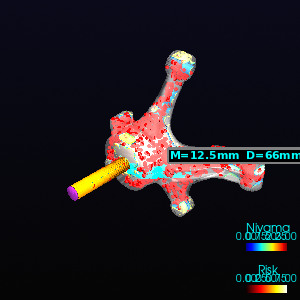
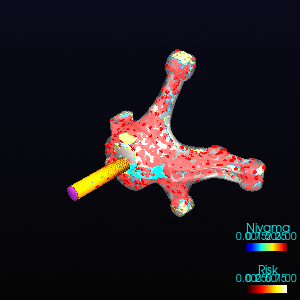
v8.4: gating area/velocity cross-checks, effective gate area, target area ranges per section, robust area calculations

Changed region(s): [[0.33, 0.15, 1.0, 0.72], [0.3, 0.6, 0.33, 0.63]]

diff --git a/core/gating.py b/core/gating.py
@@ -47,10 +47,14 @@ def _apply_edge_mask(arr, di, dj, dk):
 
 
 def _gate_source_mask(grid: np.ndarray) -> np.ndarray:
-    """Return gating bodies that can feed metal into the part."""
+    """Return gating bodies that can feed metal into the part.
+
+    Filter and pouring basin may also act as entry points; cooling sprue
+    is a chill and must not be treated as a feeder.
+    """
     return np.isin(
         grid,
-        [BodyType.INGATE, BodyType.RUNNER, BodyType.SPRUE, BodyType.COOLING_SPRUE, BodyType.POURING_BASIN],
+        [BodyType.INGATE, BodyType.RUNNER, BodyType.SPRUE, BodyType.FILTER, BodyType.POURING_BASIN],
     )
 
 
@@ -102,7 +106,8 @@ def _minimum_cross_section_area(mask: np.ndarray, dx: float) -> float:
     min_area = float("inf")
     for s, count in counts:
         # Ignore end slices that contain only a few voxels; they are not a real cross-section.
-        if count < max(3, max_count * 0.05):
+        # Use a small relative threshold (2% or at least 2 voxels) so thin throats are kept.
+        if count < max(2, max_count * 0.02):
             continue
         area = count * dx * dx
         if area < min_area:
@@ -252,6 +257,16 @@ _GATING_VELOCITY_TARGETS = {
 }
 
 
+def _target_area_range_cm2(Q_m3_s: float, v_lo: float, v_hi: float) -> Tuple[float, float]:
+    """Return (A_min, A_max) in cm² so that v = Q/A stays inside [v_lo, v_hi]."""
+    if Q_m3_s <= 0 or v_lo <= 0 or v_hi <= 0:
+        return 0.0, 0.0
+    # A = Q / v ; larger v needs smaller A
+    a_min_m2 = Q_m3_s / v_hi
+    a_max_m2 = Q_m3_s / v_lo
+    return a_min_m2 * 1e4, a_max_m2 * 1e4
+
+
 def _normalized_distance_to_range(v: float, lo: float, hi: float) -> float:
     if lo <= v <= hi:
         return 0.0
@@ -390,8 +405,22 @@ def analyze_gating(
     has_ingate = ingate.any()
 
     # Contact/cross-sectional areas of each gating section
-    ag_total_mm2, _ = ingate_contact_area_and_mask(grid, dx)
-    ag_total_cm2 = ag_total_mm2 / 100.0
+    gate_contact_area_mm2, _ = ingate_contact_area_and_mask(grid, dx)
+    gate_contact_area_cm2 = gate_contact_area_mm2 / 100.0
+
+    # True gate area is the minimum cross-section of the ingate body;
+    # if there is no ingate body, the runner exit touching the part is used.
+    ingate_min_area_mm2 = _minimum_cross_section_area(ingate, dx) if has_ingate else 0.0
+    ingate_min_area_cm2 = ingate_min_area_mm2 / 100.0
+    # Effective gate area is the smaller of (a) the ingate body's minimum cross-section
+    # and (b) the contact face with the part.  If the ingate is too thin to resolve,
+    # fall back to the contact area.
+    if has_ingate:
+        if ingate_min_area_cm2 <= 0:
+            ingate_min_area_cm2 = gate_contact_area_cm2
+        else:
+            ingate_min_area_cm2 = min(ingate_min_area_cm2, gate_contact_area_cm2)
+    gate_area_cm2 = ingate_min_area_cm2 if has_ingate else gate_contact_area_cm2
 
     runner_min_area_mm2 = _minimum_cross_section_area(runner, dx)
     runner_min_area_cm2 = runner_min_area_mm2 / 100.0
@@ -406,7 +435,7 @@ def analyze_gating(
 
     runner_thickness_mm = _mean_thickness(runner, dx)
     sprue_thickness_mm = _mean_thickness(sprue, dx)
-    ingate_thickness_mm = _mean_thickness(source, dx)
+    ingate_thickness_mm = _mean_thickness(ingate if has_ingate else source, dx)
 
     # Part weight for Bernoulli
     part_volume_mm3 = float(part_mask.sum()) * (dx ** 3)
@@ -416,12 +445,12 @@ def analyze_gating(
 
     # Section area map for velocity calculations
     section_area_cm2 = {
-        "INGATE": ag_total_cm2,
+        "INGATE": gate_area_cm2,
         "RUNNER": runner_min_area_cm2,
         "SPRUE_THROAT": sprue_throat_cm2,
         "SPRUE_BASE": sprue_base_bottom_cm2,
     }
-    selected_area_cm2 = section_area_cm2.get(velocity_section_key, ag_total_cm2)
+    selected_area_cm2 = section_area_cm2.get(velocity_section_key, gate_area_cm2)
     selected_area_m2 = selected_area_cm2 / 1e4
 
     # v8.3: user-specified inlet velocity for the selected section (0 = auto Q = V_part / t_fill)
@@ -493,6 +522,27 @@ def analyze_gating(
         f"Önerilen sistem: {recommended_system}. {system_reason}"
     )
 
+    # v8.4: attach target velocity/area ranges from recommended system to each section flow
+    def _set_targets(flow: SectionFlow, key: str):
+        section_key_map = {
+            "INGATE": "gate",
+            "RUNNER": "runner",
+            "SPRUE_THROAT": "sprue",
+            "SPRUE_BASE": "sprue",
+        }
+        vel_key = section_key_map.get(key)
+        targets = _GATING_VELOCITY_TARGETS.get(recommended_system, {})
+        if vel_key and vel_key in targets and Q_m3_s > 0:
+            v_lo, v_hi = targets[vel_key]
+            flow.target_v_min_m_s = v_lo
+            flow.target_v_max_m_s = v_hi
+            flow.target_area_min_cm2, flow.target_area_max_cm2 = _target_area_range_cm2(
+                Q_m3_s, v_lo, v_hi
+            )
+
+    for key, sf in section_flows.items():
+        _set_targets(sf, key)
+
     # Sprue height H in cm; fallback to total metal height
     metal_pts = np.argwhere(result.is_metal)
     if len(metal_pts) > 0:
@@ -514,7 +564,7 @@ def analyze_gating(
     # Bernoulli with elbow losses along the gating channel
     channel_mask = np.isin(
         grid,
-        [BodyType.INGATE, BodyType.RUNNER, BodyType.SPRUE, BodyType.COOLING_SPRUE, BodyType.POURING_BASIN],
+        [BodyType.INGATE, BodyType.RUNNER, BodyType.SPRUE, BodyType.FILTER, BodyType.POURING_BASIN],
     )
     sprue_mask = sprue & channel_mask
     effective_head_cm = height_cm
@@ -548,15 +598,48 @@ def analyze_gating(
     final_sprue_required_cm2 = max(as_req_cm2, required_sprue_area_with_losses_cm2)
     bernoulli_ok = sprue_throat_cm2 >= final_sprue_required_cm2
 
-    # Campbell: total ingate area / runner area < 1.5
-    if runner_min_area_cm2 > 0:
-        gate_to_runner_ratio = ag_total_cm2 / runner_min_area_cm2
-        campbell_ok = gate_to_runner_ratio <= 1.5
+    # v8.4: area checks against target ranges from the recommended gating system.
+    # The target area range for a section is A = Q / v, using the system's v range.
+    gate_flow = section_flows.get("INGATE", SectionFlow())
+    runner_flow = section_flows.get("RUNNER", SectionFlow())
+    sprue_flow = section_flows.get("SPRUE_THROAT", SectionFlow())
+
+    def _area_mid(sf: SectionFlow) -> float:
+        if sf.target_area_min_cm2 > 0 and sf.target_area_max_cm2 > 0:
+            return (sf.target_area_min_cm2 + sf.target_area_max_cm2) / 2.0
+        return 0.0
+
+    def _in_target_range(sf: SectionFlow, area_cm2: float) -> bool:
+        if sf.target_area_min_cm2 <= 0 or sf.target_area_max_cm2 <= 0:
+            return True
+        lo = sf.target_area_min_cm2 * 0.95
+        hi = sf.target_area_max_cm2 * 1.05
+        return lo <= area_cm2 <= hi
+
+    required_ingate_area_cm2 = _area_mid(gate_flow)
+    required_runner_area_cm2 = _area_mid(runner_flow)
+    required_sprue_area_cm2 = max(final_sprue_required_cm2, _area_mid(sprue_flow))
+
+    # Campbell-style ratio check from target velocities (Q same -> A_gate/A_runner = v_runner/v_gate)
+    campbell_ok = True
+    if runner_min_area_cm2 > 0 and gate_area_cm2 > 0:
+        target_ratio = 0.0
+        targets = _GATING_VELOCITY_TARGETS.get(recommended_system, {})
+        if "gate" in targets and "runner" in targets:
+            v_gate_mid = (targets["gate"][0] + targets["gate"][1]) / 2.0
+            v_runner_mid = (targets["runner"][0] + targets["runner"][1]) / 2.0
+            if v_gate_mid > 0:
+                target_ratio = v_runner_mid / v_gate_mid
+        if target_ratio > 0:
+            actual_ratio = gate_area_cm2 / runner_min_area_cm2
+            campbell_ok = abs(actual_ratio - target_ratio) / target_ratio <= 0.30
+        else:
+            # Fallback old rule if no target
+            campbell_ok = gate_area_cm2 / runner_min_area_cm2 <= 1.5
     else:
         campbell_ok = False
 
-    required_runner_area_cm2 = ag_total_cm2 / 1.5 if ag_total_cm2 > 0 else 0.0
-    runner_ok = runner_min_area_cm2 >= required_runner_area_cm2
+    runner_ok = _in_target_range(runner_flow, runner_min_area_cm2)
 
     # Ingate location check
     part_sdf = sdf[part_mask]
@@ -574,8 +657,7 @@ def analyze_gating(
     threshold = 0.8 * max_part_sdf
     ingate_on_thick = ingate_avg_m > threshold if max_part_sdf > 0 else False
 
-    required_ingate_area_cm2 = required_runner_area_cm2 / 1.5
-    ingate_ok = (ag_total_cm2 >= required_ingate_area_cm2) and (not ingate_on_thick)
+    ingate_ok = _in_target_range(gate_flow, gate_area_cm2) and (not ingate_on_thick)
     if user_v > 0:
         ingate_ok = ingate_ok and velocity_area_ok
 
@@ -626,7 +708,7 @@ def analyze_gating(
         )
 
     return GateResult(
-        total_ingate_contact_area_cm2=ag_total_cm2,
+        total_ingate_contact_area_cm2=gate_contact_area_cm2,
         runner_min_area_cm2=runner_min_area_cm2,
         sprue_base_area_cm2=sprue_base_cm2,
         required_sprue_area_cm2=final_sprue_required_cm2,

diff --git a/core/reporter.py b/core/reporter.py
@@ -7,7 +7,7 @@ from typing import Optional
 
 import numpy as np
 
-from core.types import AnalysisResult
+from core.types import AnalysisResult, SectionFlow
 
 
 def _html_escape(text: str) -> str:
@@ -105,10 +105,17 @@ def _section_flow_rows(gr) -> str:
         name = section_names.get(key, key)
         if key == "INGATE" and getattr(gr, "effective_gate_section", "INGATE").startswith("RUNNER"):
             name = "Yolluk (meme yok)"
+        target = ""
+        if sf.target_v_min_m_s > 0 and sf.target_v_max_m_s > 0:
+            target = (
+                f" hedef v={sf.target_v_min_m_s:.1f}-{sf.target_v_max_m_s:.1f} m/s, "
+                f"A={sf.target_area_min_cm2:.2f}-{sf.target_area_max_cm2:.2f} cm²"
+            )
         rows.append(
             f"<tr><td>{name}: v / Re / Fr</td>"
             f"<td>{sf.velocity_m_s:.2f} m/s</td>"
-            f"<td>Re={sf.reynolds:.0f}, Fr={sf.froude:.2f}, A={sf.area_cm2:.2f} cm², türbülans={'Evet' if sf.turbulent else 'Hayır'}</td></tr>"
+            f"<td>Re={sf.reynolds:.0f}, Fr={sf.froude:.2f}, A={sf.area_cm2:.2f} cm², "
+            f"türbülans={'Evet' if sf.turbulent else 'Hayır'}{target}</td></tr>"
         )
     return "".join(rows)
 
@@ -132,22 +139,37 @@ def _format_gate_table(result: AnalysisResult) -> str:
             f"runner={system_targets['runner'][0]:.1f}-{system_targets['runner'][1]:.1f}, "
             f"gate={system_targets['gate'][0]:.1f}-{system_targets['gate'][1]:.1f} m/s"
         )
-    return f"""
+    gate_flow = gr.section_flows.get("INGATE", SectionFlow())
+    runner_flow = gr.section_flows.get("RUNNER", SectionFlow())
+
+    def _target_range(sf: SectionFlow) -> str:
+        if sf.target_area_min_cm2 > 0 and sf.target_area_max_cm2 > 0:
+            return f"hedef {sf.target_area_min_cm2:.2f}-{sf.target_area_max_cm2:.2f} cm²"
+        return "hedef -"
+
+    target_ratio = 0.0
+    if system_targets and "gate" in system_targets and "runner" in system_targets:
+        v_gate_mid = (system_targets["gate"][0] + system_targets["gate"][1]) / 2.0
+        v_runner_mid = (system_targets["runner"][0] + system_targets["runner"][1]) / 2.0
+        if v_gate_mid > 0:
+            target_ratio = v_runner_mid / v_gate_mid
+
+    return f""""
     <table>
         <tr><th>Parametre</th><th>Değer</th><th>Durum / Gerekli</th></tr>
         <tr><td>Seçili giriş kesiti</td><td>{selected_section}</td><td>v = {gr.ingate_velocity_m_s:.2f} m/s</td></tr>
         <tr><td>Efektif gate kesiti</td><td>{gr.effective_gate_section}</td><td>-</td></tr>
         <tr><td>Tespit edilen / Önerilen sistem</td><td>{gr.detected_gating_system} / {gr.recommended_gating_system}</td><td>Cidar: {gr.wall_thickness_category}</td></tr>
         <tr><td>Önerilen sistem hedef hızları</td><td>{target_text}</td><td>-</td></tr>
-        <tr><td>Toplam meme temas alanı (Ag)</td><td>{gr.total_ingate_contact_area_cm2:.2f} cm²</td><td>min {gr.required_ingate_area_cm2:.2f} cm²</td></tr>
-        <tr><td>Yolluk min kesit alanı (Ar)</td><td>{gr.runner_min_area_cm2:.2f} cm²</td><td>min {gr.required_runner_area_cm2:.2f} cm²</td></tr>
+        <tr><td>Gate alanı (Ag)</td><td>{gate_flow.area_cm2:.2f} cm²</td><td>{_target_range(gate_flow)}</td></tr>
+        <tr><td>Yolluk min kesit alanı (Ar)</td><td>{gr.runner_min_area_cm2:.2f} cm²</td><td>{_target_range(runner_flow)}</td></tr>
         <tr><td>Döküm ağzı boğaz alanı (As)</td><td>{gr.sprue_throat_area_cm2:.2f} cm²</td><td>gerekli {gr.required_sprue_area_cm2:.2f} cm²</td></tr>
         <tr><td>Döküm ağzı taban alanı</td><td>{gr.sprue_base_area_cm2:.2f} cm²</td><td>-</td></tr>
         {_section_flow_rows(gr)}
         <tr><td>Toplam debi Q</td><td>{gr.ingate_flow_rate_m3_s*1e3:.2f} L/s</td><td>doldurma süresi {gr.ingate_fill_time_s:.2f} s</td></tr>
         <tr><td>Akışkanlık uzunluğu Lf</td><td>{gr.fluidity_length_mm:.1f} mm</td><td>parça boyutu ≤ Lf</td></tr>
         <tr><td>Hız için gerekli seçili kesit alanı</td><td>{gr.required_ingate_area_for_velocity_cm2:.2f} cm²</td><td>mevcut {selected_area:.2f} cm²</td></tr>
-        <tr><td>Campbell (Ag/Ar) kontrolü</td><td>{'Geçer' if gr.campbell_ok else 'Geçersiz'}</td><td>Ag/Ar &lt; 1.5</td></tr>
+        <tr><td>Campbell (Ag/Ar) kontrolü</td><td>{'Geçer' if gr.campbell_ok else 'Geçersiz'}</td><td>hedef oran {target_ratio:.2f}</td></tr>
         <tr><td>Bernoulli döküm ağzı kontrolü</td><td>{'Geçer' if gr.bernoulli_ok else 'Geçersiz'}</td><td>As ≥ gerekli</td></tr>
         <tr><td>Dirsek kaybı (K·v²/2g)</td><td>{gr.elbow_count} dirsek, {gr.head_loss_mm:.1f} mm kayıp</td><td>efektif H={gr.effective_head_mm:.1f} mm</td></tr>
         <tr><td>Meme kalın bölgede</td><td>{'Evet' if gr.ingate_on_thick_region else 'Hayır'} (ortalama M={gr.ingate_avg_m_mm:.2f} mm)</td><td>Hayır olmalı</td></tr>
@@ -418,6 +440,8 @@ def _generate_report_fpdf2(
             "SPRUE_THROAT": "D.AgzI bogazi",
             "SPRUE_BASE": "D.AgzI tabani",
         }
+        gate_flow = gr.section_flows.get("INGATE", SectionFlow())
+        runner_flow = gr.section_flows.get("RUNNER", SectionFlow())
         pdf.set_font(font, "", 13)
         pdf.cell(0, 8, "Meme / Yolluk / Döküm Ağzı", ln=True)
         pdf.set_font(font, "", 10)
@@ -426,8 +450,8 @@ def _generate_report_fpdf2(
         pdf.cell(0, 6, f"Tespit edilen / Onerilen sistem: {getattr(gr, 'detected_gating_system', '')} / {getattr(gr, 'recommended_gating_system', '')} (cidar: {getattr(gr, 'wall_thickness_category', '')})", ln=True)
         pdf.cell(0, 6, f"Toplam debi Q: {gr.ingate_flow_rate_m3_s*1e3:.2f} L/s, doldurma suresi: {gr.ingate_fill_time_s:.2f} s", ln=True)
         pdf.cell(0, 6, f"Akiskanlik uzunlugu Lf: {gr.fluidity_length_mm:.1f} mm", ln=True)
-        pdf.cell(0, 6, f"Meme temas alani: {gr.total_ingate_contact_area_cm2:.2f} cm² (min {gr.required_ingate_area_cm2:.2f} cm²)", ln=True)
-        pdf.cell(0, 6, f"Yolluk min kesit: {gr.runner_min_area_cm2:.2f} cm² (min {gr.required_runner_area_cm2:.2f} cm²)", ln=True)
+        pdf.cell(0, 6, f"Gate alani: {gate_flow.area_cm2:.2f} cm² (hedef {gate_flow.target_area_min_cm2:.2f}-{gate_flow.target_area_max_cm2:.2f})", ln=True)
+        pdf.cell(0, 6, f"Yolluk min kesit: {gr.runner_min_area_cm2:.2f} cm² (hedef {runner_flow.target_area_min_cm2:.2f}-{runner_flow.target_area_max_cm2:.2f})", ln=True)
         pdf.cell(0, 6, f"Döküm ağzı boğazı: {gr.sprue_throat_area_cm2:.2f} cm² (gerekli {gr.required_sprue_area_cm2:.2f} cm²)", ln=True)
         pdf.cell(0, 6, f"Döküm ağzı tabanı: {gr.sprue_base_area_cm2:.2f} cm²", ln=True)
         for key, sf in getattr(gr, "section_flows", {}).items():
@@ -436,7 +460,13 @@ def _generate_report_fpdf2(
             name = section_names.get(key, key)
             if key == "INGATE" and getattr(gr, "effective_gate_section", "INGATE").startswith("RUNNER"):
                 name = "Yolluk (meme yok)"
-            pdf.cell(0, 6, f"{name}: v={sf.velocity_m_s:.2f} m/s, Re={sf.reynolds:.0f}, Fr={sf.froude:.2f}, A={sf.area_cm2:.2f} cm2, turb={sf.turbulent}", ln=True)
+            target = ""
+            if sf.target_v_min_m_s > 0 and sf.target_v_max_m_s > 0:
+                target = (
+                    f" hedef v={sf.target_v_min_m_s:.1f}-{sf.target_v_max_m_s:.1f}, "
+                    f"A={sf.target_area_min_cm2:.2f}-{sf.target_area_max_cm2:.2f} cm2"
+                )
+            pdf.cell(0, 6, f"{name}: v={sf.velocity_m_s:.2f}, Re={sf.reynolds:.0f}, Fr={sf.froude:.2f}, A={sf.area_cm2:.2f}{target}, turb={sf.turbulent}", ln=True)
         pdf.cell(0, 6, f"Campbell: {'Geçer' if gr.campbell_ok else 'Geçersiz'}", ln=True)
         pdf.cell(0, 6, f"Bernoulli: {'Geçer' if gr.bernoulli_ok else 'Geçersiz'} (dirsek kaybi: {gr.elbow_count}, {gr.head_loss_mm:.1f} mm)", ln=True)
         pdf.cell(0, 6, f"Meme kalın bölgede: {'Evet' if gr.ingate_on_thick_region else 'Hayır'} "

diff --git a/ui/main_window.py b/ui/main_window.py
@@ -802,22 +802,28 @@ class MainWindow(QtWidgets.QMainWindow):
                     f"Sistem uyuşmazlığı: {gr.detected_gating_system} tespit edildi, "
                     f"{gr.recommended_gating_system} önerilir."
                 )
-        # v8.3: per-section velocity / Re / Fr report
+        # v8.4: per-section velocity / Re / Fr report with target ranges
         for key, sf in getattr(gr, "section_flows", {}).items():
             if sf.area_cm2 <= 0:
                 continue
             name = section_names.get(key, key)
             if key == "INGATE" and gr.effective_gate_section.startswith("RUNNER"):
                 name = "Yolluk (meme yok)"
+            target = ""
+            if sf.target_v_min_m_s > 0 and sf.target_v_max_m_s > 0:
+                target = (
+                    f" hedef v={sf.target_v_min_m_s:.1f}-{sf.target_v_max_m_s:.1f} m/s, "
+                    f"A={sf.target_area_min_cm2:.2f}-{sf.target_area_max_cm2:.2f} cm²"
+                )
             if sf.turbulent:
                 recs.append(
                     f"{name} hızı {sf.velocity_m_s:.2f} m/s ile yüksek; Re={sf.reynolds:.0f}, Fr={sf.froude:.2f}. "
-                    f"Türbülans / hava kaçırma riski. Kesit alanını büyüt veya döküm süresini artırın."
+                    f"Türbülans / hava kaçırma riski. Kesit alanını büyüt veya döküm süresini artırın.{target}"
                 )
             else:
                 recs.append(
                     f"{name}: v={sf.velocity_m_s:.2f} m/s, Re={sf.reynolds:.0f}, Fr={sf.froude:.2f}, "
-                    f"A={sf.area_cm2:.2f} cm² -> türbülans yok."
+                    f"A={sf.area_cm2:.2f} cm² -> türbülans yok.{target}"
                 )
         if hasattr(gr, "velocity_fill_time_match_ok") and not gr.velocity_fill_time_match_ok:
             t_fill = self._analysis.casting_params.t_fill_s if self._analysis and self._analysis.casting_params else 0.0
@@ -897,17 +903,26 @@ class MainWindow(QtWidgets.QMainWindow):
                         gr.detected_gating_system == gr.recommended_gating_system,
                     )
                 )
-            # v8.3: per-section velocity / Re / Fr checklist items
+            # v8.4: per-section velocity / Re / Fr checklist items with target ranges
             for key, sf in getattr(gr, "section_flows", {}).items():
                 if sf.area_cm2 <= 0:
                     continue
                 name = section_names.get(key, key)
                 if key == "INGATE" and gr.effective_gate_section.startswith("RUNNER"):
                     name = "Yolluk (meme yok)"
+                target = ""
+                if sf.target_v_min_m_s > 0 and sf.target_v_max_m_s > 0:
+                    target = (
+                        f" hedef v={sf.target_v_min_m_s:.1f}-{sf.target_v_max_m_s:.1f}, "
+                        f"A={sf.target_area_min_cm2:.2f}-{sf.target_area_max_cm2:.2f}"
+                    )
+                ok = not sf.turbulent
+                if sf.target_v_min_m_s > 0 and sf.target_v_max_m_s > 0:
+                    ok = ok and (sf.target_v_min_m_s <= sf.velocity_m_s <= sf.target_v_max_m_s)
                 self.checklist_layout.addWidget(
                     CheckListItem(
-                        f"{name}: v={sf.velocity_m_s:.2f} m/s, Re={sf.reynolds:.0f}, Fr={sf.froude:.2f}, A={sf.area_cm2:.2f} cm²",
-                        not sf.turbulent,
+                        f"{name}: v={sf.velocity_m_s:.2f}{target}",
+                        ok,
                     )
                 )
             if hasattr(gr, "velocity_fill_time_match_ok"):

diff --git a/core/types.py b/core/types.py
@@ -164,6 +164,11 @@ class SectionFlow:
     froude: float = 0.0
     turbulent: bool = False
     max_velocity_m_s: float = 1.0
+    # v8.4: target velocity/area range for the recommended gating system
+    target_v_min_m_s: float = 0.0
+    target_v_max_m_s: float = 0.0
+    target_area_min_cm2: float = 0.0
+    target_area_max_cm2: float = 0.0
 
 
 @dataclass